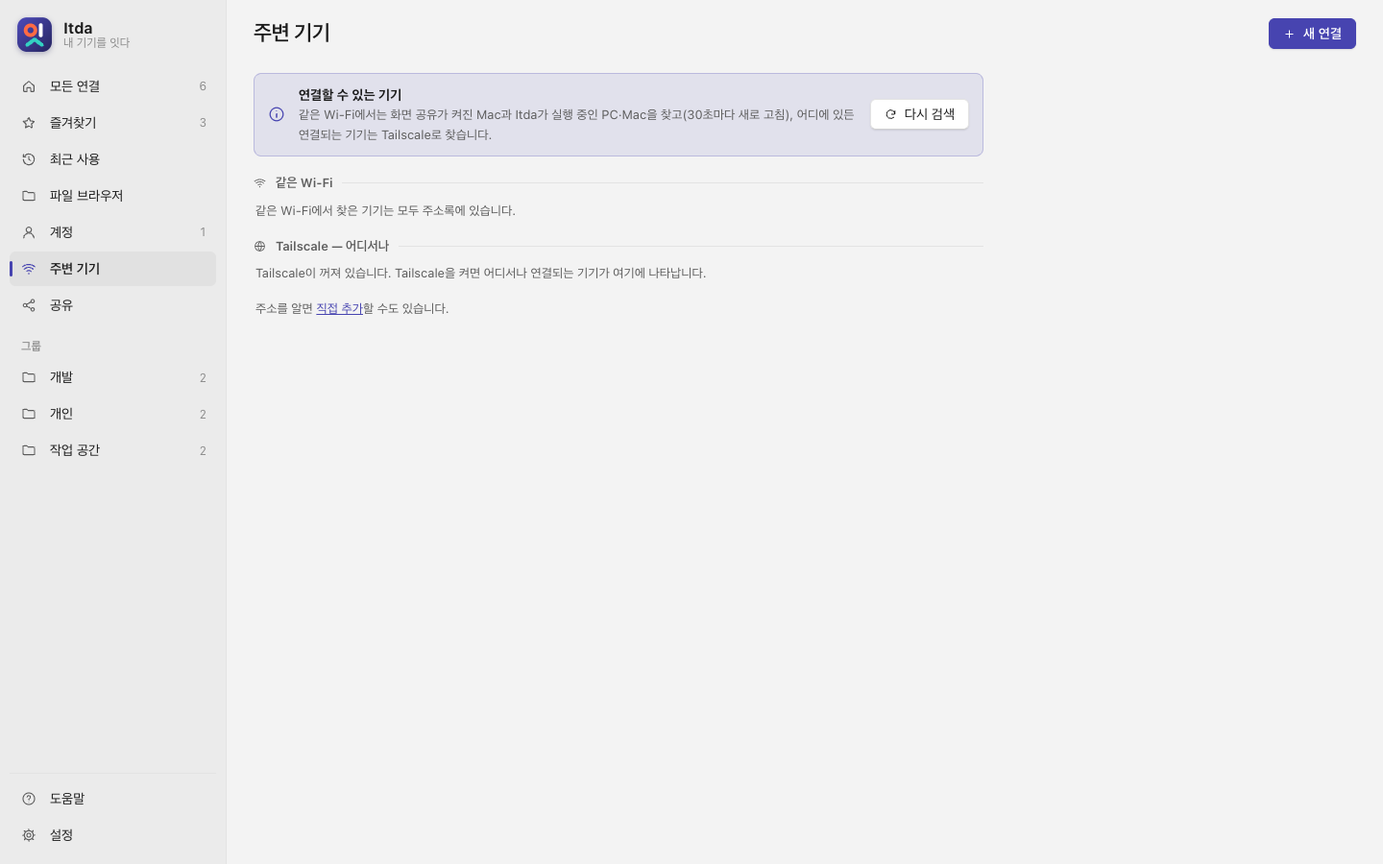
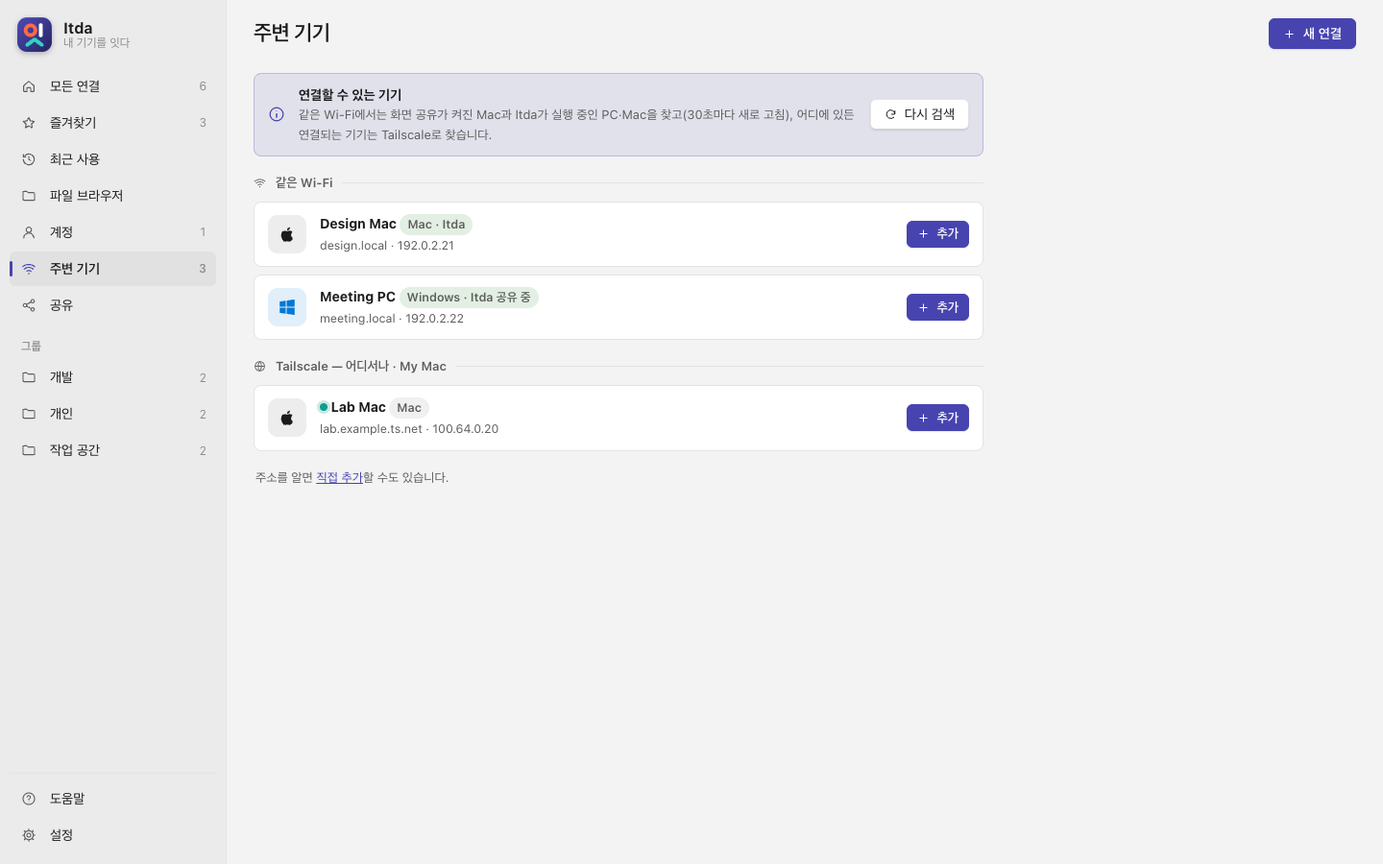
docs(site): enlarge product stories and rebuild device presentation

diff --git a/docs/index.html b/docs/index.html
@@ -15,13 +15,13 @@
 <meta property="og:title" content="Itda — 내 기기를 잇다" data-ko-content="Itda — 내 기기를 잇다" data-en-content="Itda — Connect your devices">
 <meta property="og:description" content="Windows·Mac 화면 공유와 SSH/SFTP 파일 브라우저. 휴대폰 웹 뷰어, 탭과 미리보기, 다중 모니터를 지원하는 무료 오픈 소스 앱 Itda." data-ko-content="Windows·Mac 화면 공유와 SSH/SFTP 파일 브라우저. 휴대폰 웹 뷰어, 탭과 미리보기, 다중 모니터를 지원하는 무료 오픈 소스 앱 Itda." data-en-content="Itda connects screens and files on Windows and Mac, with an SSH/SFTP file browser, mobile web viewer, tabs, previews and multiple monitors. Free and open source.">
 <meta property="og:url" content="https://jiun.dev/itda/">
-<meta property="og:image" content="https://jiun.dev/itda/img/og.png?v=2">
+<meta property="og:image" content="https://jiun.dev/itda/img/og.png?v=3">
 <meta property="og:image:width" content="1200">
 <meta property="og:image:height" content="630">
 <meta name="twitter:card" content="summary_large_image">
 <meta name="twitter:title" content="Itda — 내 기기를 잇다" data-ko-content="Itda — 내 기기를 잇다" data-en-content="Itda — Connect your devices">
 <meta name="twitter:description" content="Windows·Mac 화면 공유와 SSH/SFTP 파일 브라우저. 휴대폰 웹 뷰어, 탭과 미리보기, 다중 모니터를 지원하는 무료 오픈 소스 앱 Itda." data-ko-content="Windows·Mac 화면 공유와 SSH/SFTP 파일 브라우저. 휴대폰 웹 뷰어, 탭과 미리보기, 다중 모니터를 지원하는 무료 오픈 소스 앱 Itda." data-en-content="Itda connects screens and files on Windows and Mac, with an SSH/SFTP file browser, mobile web viewer, tabs, previews and multiple monitors. Free and open source.">
-<meta name="twitter:image" content="https://jiun.dev/itda/img/og.png?v=2">
+<meta name="twitter:image" content="https://jiun.dev/itda/img/og.png?v=3">
 <link rel="preconnect" href="https://cdn.jsdelivr.net" crossorigin>
 <link rel="stylesheet" href="https://cdn.jsdelivr.net/gh/orioncactus/pretendard@v1.3.9/dist/web/variable/pretendardvariable-dynamic-subset.min.css">
 <link rel="stylesheet" href="style.css">
@@ -100,13 +100,13 @@
       <figure class="stage reveal">
         <div class="device-scene">
           <div class="device-laptop">
-            <div class="laptop-display"><span class="laptop-camera" aria-hidden="true"></span><div class="device-screen"><picture>
-              <source srcset="img/home-light.png" media="(prefers-color-scheme: light)">
-              <img src="img/home-dark.png" width="1440" height="900" fetchpriority="high" alt="예시 기기를 표시한 현재 Itda 앱" data-ko-alt="예시 기기를 표시한 현재 Itda 앱" data-en-alt="The current Itda app showing example devices">
-            </picture></div></div>
+            <div class="laptop-display"><span class="laptop-camera" aria-hidden="true"></span><div class="device-screen"><div class="laptop-menu" aria-hidden="true"><span><b>Itda</b>　<span lang="ko">파일　편집　보기</span><span lang="en">File　Edit　View</span></span><span>9:41</span></div><a href="img/home-dark.png" data-preview data-full-light="img/home-light.png" data-full-dark="img/home-dark.png"><picture>
+              <source srcset="img/home-light.png" media="(prefers-color-scheme: light)" width="1440" height="900">
+              <img src="img/home-dark.png" fetchpriority="high" alt="예시 기기를 표시한 현재 Itda 앱" data-ko-alt="예시 기기를 표시한 현재 Itda 앱" data-en-alt="The current Itda app showing example devices" width="1440" height="900">
+            </picture></a></div></div>
             <div class="laptop-base" aria-hidden="true"></div>
           </div>
-          <div class="device-phone"><div class="phone-screen"><div class="mobile-status" aria-hidden="true"><span>9:41</span><span class="camera-island"></span><span class="status-icons">▮▮▮ <i></i></span></div><img src="img/phone-list.png" width="780" height="1560" alt="예시 기기가 보이는 휴대폰 웹 뷰어" data-ko-alt="예시 기기가 보이는 휴대폰 웹 뷰어" data-en-alt="The actual phone web viewer with example devices"></div></div>
+          <div class="device-phone"><div class="phone-screen"><div class="mobile-status" aria-hidden="true"><span>9:41</span><span class="camera-island"></span><span class="status-icons"><svg viewBox="0 0 28 12"><path d="M1 10V8h2v2zm4 0V6h2v4zm4 0V4h2v6zm4 0V2h2v8z"/><rect x="19" y="3" width="7" height="6" rx="1" fill="none" stroke="currentColor"/><path d="M20 4h5v4h-5zM27 5h1v2h-1z"/></svg></span></div><div class="browser-chrome" aria-hidden="true"><span>‹</span><span class="browser-address">192.0.2.10:8780</span><span>↻</span></div><a class="phone-preview" href="img/phone-list.png" data-preview><img src="img/phone-list.png" alt="예시 기기가 보이는 휴대폰 웹 뷰어" data-ko-alt="예시 기기가 보이는 휴대폰 웹 뷰어" data-en-alt="The actual phone web viewer with example devices" width="780" height="1440"></a><div class="home-indicator" aria-hidden="true"></div></div></div>
         </div>
         <figcaption><span lang="ko">Windows·macOS 앱과 휴대폰 웹 뷰어 · 실제 UI, 예시 데이터</span><span lang="en">Windows and macOS apps, plus the phone web viewer · actual UI with example data</span></figcaption>
       </figure>
@@ -183,7 +183,7 @@
   <!-- showcase -->
   <section class="section alt">
     <div class="wrap">
-      <div class="show reveal">
+      <div class="show show-wide reveal">
         <div class="show-copy">
           <span class="kicker"><span lang="ko">주소록</span><span lang="en">Address book</span></span>
           <h2><span lang="ko">연결은 카드 한 번 클릭</span><span lang="en">One click to connect</span></h2>
@@ -194,10 +194,17 @@
             <li><svg><use href="#i-check"/></svg><span lang="ko"><b>한글 입력과 클립보드</b> — 한/영 전환, 양방향 클립보드, ⌘ ↔ Ctrl</span><span lang="en"><b>Korean IME &amp; clipboard</b> — Hangul toggle, two-way clipboard, ⌘ ↔ Ctrl</span></li>
           </ul>
         </div>
-        <div class="shot-wrap"><div class="shot"><img src="img/nearby.png" width="1440" height="900" loading="lazy" alt="주변 기기: 같은 Wi-Fi와 Tailscale에서 찾은 Mac과 PC" data-ko-alt="주변 기기: 같은 Wi-Fi와 Tailscale에서 찾은 Mac과 PC" data-en-alt="Nearby devices found on Wi-Fi and Tailscale"></div></div>
+        <figure class="product-visual">
+          <a class="shot zoomable" href="img/home-focus-dark.png" data-preview data-full-light="img/home-focus-light.png" data-full-dark="img/home-focus-dark.png"><picture><source srcset="img/home-mobile-light.png" media="(max-width: 600px) and (prefers-color-scheme: light)" width="345" height="327"><source srcset="img/home-mobile-dark.png" media="(max-width: 600px)" width="345" height="327"><source srcset="img/home-medium-light.png" media="(max-width: 900px) and (prefers-color-scheme: light)" width="710" height="327"><source srcset="img/home-medium-dark.png" media="(max-width: 900px)" width="710" height="327"><source srcset="img/home-focus-light.png" media="(prefers-color-scheme: light)" width="1075" height="327"><img src="img/home-focus-dark.png" loading="lazy" alt="저장한 기기 카드와 온라인 상태를 크게 표시한 주소록" data-ko-alt="저장한 기기 카드와 온라인 상태를 크게 표시한 주소록" data-en-alt="Address book with saved device cards and online status" data-ui-font="17" width="1075" height="327"></picture><span class="zoom-hint"><span lang="ko">크게 보기 ↗</span><span lang="en">Enlarge ↗</span></span></a>
+          <figcaption><span lang="ko">저장한 기기를 클릭하면 바로 연결됩니다. 카드 영역 확대 · 실제 UI, 예시 기기</span><span lang="en">Click a saved device to connect. Card detail · actual UI, example devices</span></figcaption>
+        </figure>
+        <div class="discovery-detail">
+          <div><span class="detail-number">+</span><h3><span lang="ko">처음 연결할 기기는<br>주변에서 찾고 추가</span><span lang="en">Find a nearby device.<br>Add it to your cards.</span></h3><p><span lang="ko">같은 Wi-Fi와 Tailscale에서 발견한 기기를 주소록에 추가하세요.</span><span lang="en">Add devices discovered on your Wi-Fi or Tailscale to the address book.</span></p></div>
+          <figure><a class="shot zoomable" href="img/nearby-focus.png" data-preview data-full="img/nearby-focus.png"><picture><source srcset="img/nearby-mobile.png" media="(max-width: 600px)" width="400" height="714"><img src="img/nearby-focus.png" loading="lazy" alt="Design Mac, Meeting PC, Lab Mac과 추가 버튼이 표시된 주변 기기" data-ko-alt="Design Mac, Meeting PC, Lab Mac과 추가 버튼이 표시된 주변 기기" data-en-alt="Nearby Design Mac, Meeting PC and Lab Mac with Add buttons" data-ui-font="15" width="735" height="536"></picture><span class="zoom-hint"><span lang="ko">크게 보기 ↗</span><span lang="en">Enlarge ↗</span></span></a><figcaption><span lang="ko">주변 기기 화면의 핵심 영역 확대 · 예시 데이터</span><span lang="en">Detail of Nearby · example data</span></figcaption></figure>
+        </div>
       </div>
 
-      <div class="show flip reveal" id="files">
+      <div class="show show-wide reveal" id="files">
         <div class="show-copy">
           <span class="kicker"><span lang="ko">파일 브라우저</span><span lang="en">File browser</span></span>
           <h2><span lang="ko">화면을 열지 않고<br>파일에 바로 접근</span><span lang="en">Open the files.<br>Keep your screen.</span></h2>
@@ -208,7 +215,7 @@
           </ul>
           <a class="text-link" href="start.html#files"><span lang="ko">파일 연결 방법 보기 →</span><span lang="en">Set up file access →</span></a>
         </div>
-        <figure class="shot-wrap"><div class="shot"><picture><source srcset="img/files-light.png" media="(prefers-color-scheme: light)"><img src="img/files-dark.png" width="1440" height="900" loading="lazy" alt="예시 폴더와 파일을 표시한 실제 Mac 파일 브라우저" data-ko-alt="예시 폴더와 파일을 표시한 실제 Mac 파일 브라우저" data-en-alt="The actual Mac file browser with example folders and files"></picture></div><figcaption><span lang="ko">현재 Mac UI · 예시 데이터</span><span lang="en">Current Mac UI · example data</span></figcaption></figure>
+        <figure class="product-visual"><a class="shot zoomable" href="img/files-focus-dark.png" data-preview data-full-light="img/files-focus-light.png" data-full-dark="img/files-focus-dark.png"><picture><source srcset="img/files-mobile-light.png" media="(max-width: 600px) and (prefers-color-scheme: light)" width="400" height="450"><source srcset="img/files-mobile-dark.png" media="(max-width: 600px)" width="400" height="450"><source srcset="img/files-medium-light.png" media="(max-width: 900px) and (prefers-color-scheme: light)" width="850" height="580"><source srcset="img/files-medium-dark.png" media="(max-width: 900px)" width="850" height="580"><source srcset="img/files-focus-light.png" media="(prefers-color-scheme: light)" width="1100" height="580"><img src="img/files-focus-dark.png" loading="lazy" alt="파일 이름과 도구 막대가 잘 보이도록 확대한 Mac 파일 브라우저" data-ko-alt="파일 이름과 도구 막대가 잘 보이도록 확대한 Mac 파일 브라우저" data-en-alt="Mac file browser enlarged to show file names and toolbar" data-ui-font="15" width="1100" height="580"></picture><span class="zoom-hint"><span lang="ko">크게 보기 ↗</span><span lang="en">Enlarge ↗</span></span></a><figcaption><span lang="ko">실제 Mac 파일 창 · 작은 화면에서는 파일 영역 확대 · 예시 데이터</span><span lang="en">Actual Mac file window · file detail on smaller screens · example data</span></figcaption></figure>
       </div>
 
       <div class="show flip reveal">
@@ -222,13 +229,10 @@
             <li><svg><use href="#i-check"/></svg><span lang="ko"><b>앱처럼 설치</b> — 홈 화면·Dock에 추가하면 전체 화면으로</span><span lang="en"><b>Installs like an app</b> — add to Home Screen or the Dock</span></li>
           </ul>
         </div>
-        <figure class="browser-devices">
-          <div class="device-tablet"><span class="tablet-camera" aria-hidden="true"></span><div class="device-screen"><img src="img/tablet-view.png" width="2048" height="1536" loading="lazy" alt="태블릿 크기로 렌더링한 실제 Itda 웹 뷰어" data-ko-alt="태블릿 크기로 렌더링한 실제 Itda 웹 뷰어" data-en-alt="The actual Itda web viewer at tablet size"></div></div>
-          <figcaption><span lang="ko">기기 목록과 계정 관리를 터치 화면에서도.</span><span lang="en">Your devices and accounts, sized for touch.</span></figcaption>
-        </figure>
+        <figure class="browser-devices phone-feature"><div class="device-phone"><div class="phone-screen"><div class="mobile-status" aria-hidden="true"><span>9:41</span><span class="camera-island"></span><span class="status-icons"><svg viewBox="0 0 28 12"><path d="M1 10V8h2v2zm4 0V6h2v4zm4 0V4h2v6zm4 0V2h2v8z"/><rect x="19" y="3" width="7" height="6" rx="1" fill="none" stroke="currentColor"/><path d="M20 4h5v4h-5zM27 5h1v2h-1z"/></svg></span></div><div class="browser-chrome" aria-hidden="true"><span>‹</span><span class="browser-address">192.0.2.10:8780</span><span>↻</span></div><a class="phone-preview" href="img/phone-list.png" data-preview><img src="img/phone-list.png" alt="예시 기기가 보이는 휴대폰 웹 뷰어" data-ko-alt="예시 기기가 보이는 휴대폰 웹 뷰어" data-en-alt="The actual phone web viewer with example devices" width="780" height="1440"></a><div class="home-indicator" aria-hidden="true"></div></div></div><figcaption><span lang="ko">휴대폰 브라우저에서 연 실제 기기 목록 · 예시 데이터</span><span lang="en">The actual device list in a phone browser · example data</span></figcaption></figure>
       </div>
 
-      <div class="show reveal">
+      <div class="show show-wide reveal">
         <div class="show-copy">
           <span class="kicker"><span lang="ko">공유</span><span lang="en">Sharing</span></span>
           <h2><span lang="ko">QR 하나로 시작</span><span lang="en">Start with one QR code</span></h2>
@@ -238,7 +242,7 @@
             <li><svg><use href="#i-check"/></svg><span lang="ko"><b>보는 사람 표시</b>와 <b>모두 끊기</b>, 알림 영역 알림</span><span lang="en"><b>See who's watching</b>, <b>kick everyone</b>, tray notifications</span></li>
           </ul>
         </div>
-        <div class="shot-wrap"><div class="shot"><img src="img/share.png" width="1440" height="900" loading="lazy" alt="공유 페이지: QR 코드, 주소, 접속 PIN" data-ko-alt="공유 페이지: QR 코드, 주소, 접속 PIN" data-en-alt="Share page with QR code, addresses and PIN"></div></div>
+        <figure class="product-visual qr-visual"><div class="capture-heading"><span><b>1</b><span lang="ko">웹 뷰어 켜기</span><span lang="en">Enable web viewer</span></span><span><b>2</b><span lang="ko">QR 스캔</span><span lang="en">Scan QR</span></span><span><b>3</b><span lang="ko">PIN 입력</span><span lang="en">Enter PIN</span></span></div><a class="shot zoomable" href="img/share-focus.png" data-preview data-full="img/share-focus.png"><picture><source srcset="img/share-mobile.png" media="(max-width: 600px)" width="400" height="535"><img src="img/share-focus.png" loading="lazy" alt="QR 코드, 접속 주소와 PIN을 확대한 실제 공유 화면" data-ko-alt="QR 코드, 접속 주소와 PIN을 확대한 실제 공유 화면" data-en-alt="Actual Share page detail with enlarged QR code, address and PIN" data-ui-font="15" width="735" height="253"></picture><span class="zoom-hint"><span lang="ko">크게 보기 ↗</span><span lang="en">Enlarge ↗</span></span></a><figcaption><span lang="ko">공유 화면의 접속 영역 확대 · 예시 QR입니다. 실제 접속에는 자신의 Itda에 표시된 QR과 PIN을 사용하세요.</span><span lang="en">Detail of the Share page · example QR. Connect using the QR and PIN shown in your own Itda.</span></figcaption></figure>
       </div>
     </div>
   </section>

diff --git a/docs/style.css b/docs/style.css
@@ -152,32 +152,47 @@ h1.title {
 .meta span { display: inline-flex; align-items: center; gap: 6px; }
 .meta svg { width: 15px; height: 15px; color: var(--teal); }
 
-/* Product devices: real aspect ratios; screenshots are never stretched or cropped. */
+/* Device hardware surrounds the real app captures. Feature crops are explicitly captioned. */
 .stage { margin:56px auto 0; max-width:1080px; }
 .device-scene { position:relative; padding:0 5% 32px 0; }
 .device-laptop { width:94%; }
-.laptop-display { position:relative; padding:22px 10px 10px; border-radius:19px 19px 8px 8px; background:#18191e; border:1px solid #55565e; box-shadow:0 25px 60px #05051235,inset 0 0 0 1px #ffffff12; }
-.laptop-camera { position:absolute; width:5px; height:5px; border-radius:50%; top:8px; left:calc(50% - 2px); background:#090a10; box-shadow:0 0 0 2px #303139; }
+.laptop-display { position:relative; padding:8px; border-radius:22px 22px 10px 10px; background:#0c0d10; border:2px solid #555861; box-shadow:0 22px 60px #05051235,inset 0 0 0 1px #000; }
+.laptop-camera { position:absolute; width:12%; height:19px; border-radius:0 0 8px 8px; top:8px; left:44%; background:#0b0c0e; z-index:1; }
+.laptop-camera:after { content:""; position:absolute; width:5px; height:5px; border-radius:50%; top:6px; left:calc(50% - 2.5px); background:#1c2635; box-shadow:0 0 0 1px #292b30; }
 .device-screen { overflow:hidden; background:#f6f6f8; }
+.device-screen a,.phone-preview { display:block; cursor:zoom-in; }
 .device-screen img { display:block; width:100%; height:auto; }
-.laptop-display .device-screen { aspect-ratio:16/10; border-radius:5px; }
-.laptop-base { position:relative; width:108%; height:17px; margin-left:-4%; border-radius:2px 2px 50% 50% / 2px 2px 12px 12px; background:linear-gradient(#c6c7ce,#999ba5 45%,#61636e); box-shadow:0 11px 18px #0002; border-top:1px solid #e5e6ec; }
-.laptop-base:before { content:""; display:block; width:15%; height:6px; margin:auto; background:#6c6f7a; border-radius:0 0 8px 8px; box-shadow:inset 0 1px 2px #31333a88; }
-.device-phone { width:210px; padding:7px; border-radius:34px; background:#24252b; border:1px solid #6e707c; box-shadow:0 22px 45px #03031040,inset 0 0 0 2px #0c0d10; }
-.device-scene > .device-phone { position:absolute; right:0; bottom:8px; width:21%; }
-.phone-screen { overflow:hidden; border-radius:27px; background:#f4f4f6; }
-.phone-screen img { width:100%; height:auto; aspect-ratio:1/2; }
-.mobile-status { position:relative; height:27px; display:flex; align-items:center; justify-content:space-between; padding:0 12px; color:#17181e; font:600 9px/1 var(--font); }
-.camera-island { position:absolute; left:50%; top:5px; transform:translateX(-50%); width:28%; height:16px; background:#111216; border-radius:12px; }
-.status-icons { display:flex; align-items:center; gap:4px; font-size:7px; }
-.status-icons i { display:block; width:13px; height:7px; border:1px solid #666; border-radius:2px; background:linear-gradient(90deg,#25262c 78%,transparent 78%); }
+.laptop-display .device-screen { border-radius:14px 14px 4px 4px; }
+.laptop-menu { display:flex; align-items:center; justify-content:space-between; height:24px; padding:0 14px; background:#303035; color:#eeeef1; font:10px/1 var(--font); }
+@media(prefers-color-scheme:light) { .laptop-menu { background:#dddde3; color:#24252c; } }
+.laptop-base { position:relative; width:107%; height:12px; margin-left:-3.5%; border-radius:2px 2px 7px 7px; background:linear-gradient(#858890 0%,#4d5058 35%,#31343c 80%,#21242b 100%); box-shadow:0 10px 18px #0002; border-top:1px solid #b1b3b8; }
+.laptop-base:before { content:""; display:block; width:14%; height:4px; margin:auto; background:#272930; border-radius:0 0 5px 5px; }
+.device-phone { position:relative; width:390px; max-width:100%; padding:7px; border-radius:49px; background:#141517; border:2px solid #878b94; box-shadow:0 24px 60px #03031030,inset 0 0 0 2px #33363a; }
+.device-phone:before,.device-phone:after { content:""; position:absolute; width:3px; background:#63676e; border-radius:2px; }
+.device-phone:before { height:15%; left:-4px; top:18%; background:linear-gradient(#63676e 42%,transparent 42%,transparent 56%,#63676e 56%); }
+.device-phone:after { height:9%; right:-4px; top:26%; }
+.device-scene > .device-phone { position:absolute; right:0; bottom:8px; width:25%; }
+.phone-screen { overflow:hidden; border-radius:40px; background:#f4f4f6; }
+.phone-screen img { display:block; width:100%; height:auto; aspect-ratio:13/24; }
+.mobile-status { position:relative; height:43px; display:flex; align-items:center; justify-content:space-between; padding:0 26px; color:#17181e; font:600 12px/1 var(--font); }
+.camera-island { position:absolute; left:50%; top:9px; transform:translateX(-50%); width:27%; height:25px; background:#101114; border-radius:16px; }
+.status-icons { width:32px; color:#17181e; }
+.status-icons svg { display:block; width:100%; height:auto; fill:currentColor; }
+.browser-chrome { display:flex; align-items:center; gap:12px; height:47px; padding:3px 16px 8px; color:#43434b; background:#f4f4f6; font-size:20px; }
+.browser-address { flex:1; border-radius:10px; background:#e5e5eb; color:#3b3c43; font-size:12px; text-align:center; line-height:32px; }
+.home-indicator { height:24px; position:relative; background:#f4f4f6; }
+.home-indicator:after { content:""; position:absolute; bottom:7px; left:34%; width:32%; height:4px; background:#131417; border-radius:3px; }
+.device-scene .mobile-status { height:30px; padding:0 17px; font-size:8px; }
+.device-scene .camera-island { top:6px; height:18px; }
+.device-scene .status-icons { width:24px; }
+.device-scene .browser-chrome { height:33px; font-size:15px; gap:8px; padding:0 10px 5px; }
+.device-scene .browser-address { font-size:8px; line-height:23px; border-radius:7px; }
+.device-scene .home-indicator { height:17px; }
+.device-scene .home-indicator:after { bottom:5px; height:3px; }
 figure { margin:0; min-width:0; }
 figcaption { color:var(--text-3); font-size:12px; line-height:1.6; margin-top:18px; text-align:center; }
 .browser-devices { padding:10px 0; }
-.device-tablet { position:relative; padding:11px 18px; border-radius:23px; border:1px solid #656773; background:#24252b; box-shadow:var(--shadow),inset 0 0 0 2px #111216; }
-.device-tablet .device-screen { aspect-ratio:4/3; border-radius:10px; }
-.tablet-camera { position:absolute; width:4px; height:4px; border-radius:50%; background:#101115; left:6px; top:calc(50% - 2px); box-shadow:0 0 0 1px #4c4e59; }
-.phone-row > .device-phone { width:210px; margin:auto; }
+.phone-row > .device-phone { width:320px; margin:auto; }
 
 /* works-with strip */
 .strip { padding: 22px 0 8px; }
@@ -233,12 +248,57 @@ h3 { font-size: 19px; letter-spacing: -.015em; margin: 0 0 6px; }
 .shot {
   position: relative; border-radius: 14px; overflow: hidden; border: 1px solid var(--line-2); box-shadow: var(--shadow); background: #1c1b1f;
 }
-.shot-wrap { position: relative; }
-.shot-wrap::before {
-  content: ""; position: absolute; inset: 8% -6% -8% 8%; z-index: -1; border-radius: 40px; filter: blur(40px);
-  background: linear-gradient(135deg, var(--glow-1), var(--glow-2));
-}
 
+
+/* Readable product stories: full-width app windows and focused details. */
+.show.show-wide { grid-template-columns:minmax(0,1fr); gap:32px; }
+.show-wide .show-copy { max-width:850px; }
+.show-wide .show-copy ul { grid-template-columns:repeat(2,minmax(0,1fr)); }
+.show-wide .show-copy ul li:last-child:nth-child(odd) { grid-column:1/-1; }
+.product-visual { width:100%; }
+.product-visual .shot { width:100%; }
+.shot { display:block; color:inherit; text-decoration:none; }
+.shot img { display:block; width:100%; height:auto; }
+.zoomable { cursor:zoom-in; isolation:isolate; }
+.zoom-hint { position:absolute; right:14px; bottom:12px; padding:6px 12px; border-radius:9px; background:#191925e8; color:white; font-size:12px; box-shadow:0 2px 9px #0003; }
+.zoomable:focus-visible { outline:3px solid var(--accent); outline-offset:5px; }
+.discovery-detail { display:grid; grid-template-columns:300px minmax(0,1fr); gap:40px; align-items:center; margin-top:16px; padding-top:30px; border-top:1px solid var(--line-2); }
+.discovery-detail h3 { font-size:26px; line-height:1.35; margin:14px 0; }
+.discovery-detail p { color:var(--text-2); }
+.detail-number { display:grid; place-items:center; width:36px; height:36px; border:1px solid var(--line-2); border-radius:12px; color:var(--teal); font-size:24px; }
+.phone-feature { display:grid; justify-items:center; padding:24px 20px; border-radius:32px; background:radial-gradient(ellipse at center,var(--glow-1),transparent 70%); }
+.phone-feature .device-phone { width:390px; }
+.capture-heading { display:flex; gap:24px; align-items:center; margin:0 0 20px; flex-wrap:wrap; }
+.capture-heading > span { display:flex; align-items:center; gap:10px; font-size:16px; font-weight:600; }
+.capture-heading b { display:grid; place-items:center; width:30px; height:30px; border-radius:50%; color:var(--accent-ink); background:var(--accent); font-size:14px; }
+.qr-visual { max-width:1000px; }
+.image-dialog { width:calc(100vw - 40px); max-width:1600px; max-height:calc(100dvh - 40px); border:1px solid var(--line-2); border-radius:18px; padding:0; color:var(--text); background:var(--surface); box-shadow:var(--shadow); }
+.image-dialog::backdrop { background:#070710d9; backdrop-filter:blur(8px); }
+.image-dialog header { display:flex; align-items:center; gap:12px; padding:14px 18px; border-bottom:1px solid var(--line); }
+.image-dialog header p { flex:1; margin:0; font-size:14px; }
+.image-dialog button { border:1px solid var(--line-2); background:var(--surface-2); color:var(--text); border-radius:8px; padding:7px 12px; cursor:pointer; font:inherit; font-size:13px; }
+.image-scroll { overflow:auto; max-height:calc(100dvh - 135px); padding:16px; }
+.image-scroll img { display:block; max-width:100%; max-height:calc(100dvh - 175px); width:auto; height:auto; margin:auto; }
+.image-dialog.actual .image-scroll img { max-width:none; max-height:none; margin:0; }
+body:has(.image-dialog[open]) { overflow:hidden; }
+@media(max-width:900px) {
+ .discovery-detail { grid-template-columns:1fr; gap:20px; }
+ .discovery-detail h3 br { display:none; }
+ .show-wide .show-copy ul { grid-template-columns:1fr; }
+}
+@media(max-width:600px) {
+ .phone-feature { padding:14px 0; }
+ .phone-feature .device-phone { width:340px; border-radius:44px; }
+ .phone-feature .phone-screen { border-radius:35px; }
+ .show.show-wide { gap:24px; }
+ .capture-heading { gap:10px 18px; }
+ .capture-heading > span { font-size:13px; gap:7px; }
+ .capture-heading b { width:24px; height:24px; font-size:12px; }
+ .image-dialog { width:calc(100vw - 16px); max-height:calc(100dvh - 16px); }
+ .image-dialog header { flex-wrap:wrap; }
+ .image-dialog header p { flex-basis:100%; }
+ .image-scroll { padding:8px; }
+}
 
 /* how it works */
 .flow { position: relative; border-radius: 24px; border: 1px solid var(--line); background: var(--surface); padding: 36px 28px; overflow: hidden; }
@@ -377,7 +437,7 @@ code { font: 13.5px var(--mono); padding: 2px 7px; border-radius: 6px; backgroun
   .steps3, .sec-grid, .two { grid-template-columns: 1fr; }
   footer .wrap { grid-template-columns: 1fr 1fr; }
   footer .wrap > div:first-child { grid-column: 1 / -1; }
-  .device-scene > .device-phone { width:24%; border-radius:27px; padding:5px; }
+  .device-scene > .device-phone { width:27%; border-radius:29px; padding:5px; }
   .device-scene .phone-screen { border-radius:21px; }
   .phone-row { grid-template-columns: 1fr; }
 
@@ -397,19 +457,23 @@ code { font: 13.5px var(--mono); padding: 2px 7px; border-radius: 6px; backgroun
   .stage { margin-top:40px; }
   .device-scene { padding:0 0 26px; }
   .device-laptop { width:90%; }
-  .laptop-display { padding:13px 5px 5px; border-radius:10px 10px 4px 4px; }
-  .laptop-camera { width:3px; height:3px; top:5px; }
-  .laptop-base { height:9px; }
+  .laptop-display { padding:3px; border-radius:9px 9px 4px 4px; border-width:1px; }
+  .laptop-menu { height:10px; padding:0 5px; font-size:3.5px; }
+  .laptop-display .device-screen { border-radius:5px 5px 2px 2px; }
+  .laptop-camera { top:3px; height:8px; border-radius:0 0 3px 3px; }
+  .laptop-camera:after { width:2px; height:2px; top:2px; left:calc(50% - 1px); }
+  .laptop-base { height:5px; }
   .laptop-base:before { height:3px; }
   .device-scene > .device-phone { width:25%; padding:3px; border-radius:15px; bottom:0; }
   .device-scene .phone-screen { border-radius:12px; }
   .device-scene .mobile-status { height:13px; padding:0 5px; font-size:4px; }
   .device-scene .camera-island { top:3px; height:7px; }
-  .device-scene .status-icons { font-size:3px; gap:2px; }
+  .device-scene .status-icons { width:10px; }
+  .device-scene .browser-chrome { height:15px; gap:3px; padding:0 4px 3px; font-size:6px; }
+  .device-scene .browser-address { font-size:3px; line-height:10px; border-radius:3px; }
+  .device-scene .home-indicator { height:7px; }
+  .device-scene .home-indicator:after { height:1.5px; bottom:2px; }
   .device-scene .status-icons i { width:6px; height:3px; }
-  .device-tablet { padding:7px 12px; border-radius:16px; }
-  .device-tablet .device-screen { border-radius:7px; }
-  .tablet-camera { left:4px; width:3px; height:3px; }
   .eyebrow { font-size:11px; line-height:1.5; max-width:100%; }
   .eyebrow > span:last-child { min-width:0; }
   .final { padding: 52px 20px; }

diff --git a/docs/start.html b/docs/start.html
@@ -15,9 +15,9 @@
 <meta property="og:title" content="시작하기 — Itda" data-ko-content="시작하기 — Itda" data-en-content="Get started — Itda">
 <meta property="og:description" content="Windows·Mac 화면 공유와 SSH/SFTP 파일 브라우저. 휴대폰 웹 뷰어, 탭과 미리보기, 다중 모니터를 지원하는 무료 오픈 소스 앱 Itda." data-ko-content="Windows·Mac 화면 공유와 SSH/SFTP 파일 브라우저. 휴대폰 웹 뷰어, 탭과 미리보기, 다중 모니터를 지원하는 무료 오픈 소스 앱 Itda." data-en-content="Itda connects screens and files on Windows and Mac, with an SSH/SFTP file browser, mobile web viewer, tabs, previews and multiple monitors. Free and open source.">
 <meta property="og:url" content="https://jiun.dev/itda/start.html">
-<meta property="og:image" content="https://jiun.dev/itda/img/og.png?v=2">
+<meta property="og:image" content="https://jiun.dev/itda/img/og.png?v=3">
 <meta name="twitter:card" content="summary_large_image">
-<meta name="twitter:image" content="https://jiun.dev/itda/img/og.png?v=2">
+<meta name="twitter:image" content="https://jiun.dev/itda/img/og.png?v=3">
 <link rel="preconnect" href="https://cdn.jsdelivr.net" crossorigin>
 <link rel="stylesheet" href="https://cdn.jsdelivr.net/gh/orioncactus/pretendard@v1.3.9/dist/web/variable/pretendardvariable-dynamic-subset.min.css">
 <link rel="stylesheet" href="style.css">
@@ -104,7 +104,7 @@
       <section class="step" id="tour">
         <div class="step-head"><span class="step-num">2</span><h2><span lang="ko">첫 화면 둘러보기</span><span lang="en">A first look</span></h2></div>
         <p><span lang="ko">왼쪽에는 <b>모든 연결 · 즐겨찾기 · 최근 사용 · 파일 브라우저 · 계정 · 주변 기기 · 공유</b>가 있고, 가운데에는 저장한 기기가 카드로 보입니다. 위쪽 검색칸에 주소를 바로 입력해 연결할 수도 있습니다.</span><span lang="en">The sidebar has <b>All · Favourites · Recent · File browser · Accounts · Nearby · Share</b>; your saved devices appear as cards. You can also type an address straight into the search box.</span></p>
-        <div class="shot"><picture><source srcset="img/home-light.png" media="(prefers-color-scheme: light)"><img src="img/home-dark.png" width="1440" height="900" loading="lazy" alt="Itda 홈 화면" data-ko-alt="Itda 홈 화면" data-en-alt="Itda home screen"></picture></div>
+        <a class="shot zoomable" href="img/home-dark.png" data-preview data-full-light="img/home-light.png" data-full-dark="img/home-dark.png"><picture><source srcset="img/home-light.png" media="(prefers-color-scheme: light)" width="1440" height="900"><img src="img/home-dark.png" loading="lazy" alt="Itda 홈 화면" data-ko-alt="Itda 홈 화면" data-en-alt="Itda home screen" width="1440" height="900"></picture><span class="zoom-hint"><span lang="ko">크게 보기 ↗</span><span lang="en">Enlarge ↗</span></span></a>
         <p class="cap"><span lang="ko">초록 점은 지금 연결할 수 있다는 뜻입니다. <kbd>Ctrl</kbd> (Mac은 <kbd>⌘</kbd>)와 <kbd>+</kbd> / <kbd>−</kbd>로 앱 화면 크기를 바꿀 수 있습니다.</span><span lang="en">A green dot means the device is reachable right now. Use <kbd>Ctrl</kbd> (<kbd>⌘</kbd> on Mac) and <kbd>+</kbd> / <kbd>−</kbd> to zoom the app.</span></p>
       </section>
 
@@ -117,7 +117,7 @@
           <li><span lang="ko">화면 공유 옆 ⓘ에서 <b>접근 허용</b>에 내 계정이 있는지 확인합니다.</span><span lang="en">Click ⓘ next to Screen Sharing and check your account is in <b>Allow access for</b>.</span></li>
           <li><span lang="ko">Itda의 <b>주변 기기</b>에서 Mac 옆 <b>추가</b>를 누르고, <b>Mac 계정 이름(짧은 이름)</b>과 로그인 암호를 넣은 뒤 <b>저장 후 연결</b>. Apple ID가 아닙니다.</span><span lang="en">In Itda's <b>Nearby</b>, click <b>Add</b> next to the Mac, enter the <b>Mac account short name</b> and login password, then <b>Save &amp; connect</b>. Not your Apple ID.</span></li>
         </ol>
-        <div class="shot"><img src="img/editor.png" width="1440" height="900" loading="lazy" alt="연결 편집 창: 종류, 주소, 계정, SSH" data-ko-alt="연결 편집 창: 종류, 주소, 계정, SSH" data-en-alt="Connection editor: kind, address, account, SSH"></div>
+        <a class="shot zoomable" href="img/editor.png" data-preview><img src="img/editor.png" loading="lazy" alt="연결 편집 창: 종류, 주소, 계정, SSH" data-ko-alt="연결 편집 창: 종류, 주소, 계정, SSH" data-en-alt="Connection editor: kind, address, account, SSH" width="1440" height="900"><span class="zoom-hint"><span lang="ko">크게 보기 ↗</span><span lang="en">Enlarge ↗</span></span></a>
         <p class="cap"><span lang="ko">계정 이름이 헷갈리면 Mac 터미널에서 <code>whoami</code>. 여러 Mac에 같은 계정을 쓰면 <b>계정</b>을 만들어 고르기만 하세요.</span><span lang="en">Unsure of the short name? Run <code>whoami</code> in Terminal. Same account on several Macs? Create an <b>Account</b> once and pick it.</span></p>
         <div class="callout ok"><svg><use href="#i-check"/></svg><div><span lang="ko"><b>밖에서도 쓸 거라면</b> 같은 공유 화면에서 <b>원격 로그인</b>도 켜고, 연결 편집에서 <b>SSH로 암호화해서 연결</b>을 켜세요.</span><span lang="en"><b>Using it away from home?</b> Also turn on <b>Remote Login</b> on the Mac and switch on <b>Encrypt with SSH</b> in the connection editor.</span></div></div>
       </section>
@@ -154,7 +154,7 @@
           <li><span lang="ko">Itda 메인 화면의 <b>파일 브라우저</b>를 누르면 별도 파일 창이 열립니다. 기기를 고르고 저장 계정이나 파일 연결 계정을 선택하세요. 화면 공유 세션은 필요하지 않습니다.</span><span lang="en">Open <b>File browser</b> in the main window to get a separate file window. Choose a device and its saved or file-connection account. No screen-sharing session is required.</span></li>
           <li><span lang="ko">탭과 경로 표시로 폴더를 탐색하고 복사·이동하세요. 기기 선택은 같은 창에서 이동하며, <kbd>⌘</kbd> / <kbd>Ctrl</kbd> + 클릭 또는 <kbd>⌘N</kbd> / <kbd>Ctrl+N</kbd>은 명시적으로 새 파일 창을 엽니다.</span><span lang="en">Browse using tabs and the path bar, then copy or move files. Device selections stay in the same window; <kbd>⌘</kbd> / <kbd>Ctrl</kbd>-click or <kbd>⌘N</kbd> / <kbd>Ctrl+N</kbd> explicitly opens another file window.</span></li>
         </ol>
-        <div class="shot"><picture><source srcset="img/files-light.png" media="(prefers-color-scheme: light)"><img src="img/files-dark.png" width="1440" height="900" loading="lazy" alt="예시 파일이 표시된 Mac 파일 브라우저" data-ko-alt="예시 파일이 표시된 Mac 파일 브라우저" data-en-alt="Mac file browser with example files"></picture></div>
+        <a class="shot zoomable" href="img/files-dark.png" data-preview data-full-light="img/files-light.png" data-full-dark="img/files-dark.png"><picture><source srcset="img/files-light.png" media="(prefers-color-scheme: light)" width="1440" height="900"><img src="img/files-dark.png" loading="lazy" alt="예시 파일이 표시된 Mac 파일 브라우저" data-ko-alt="예시 파일이 표시된 Mac 파일 브라우저" data-en-alt="Mac file browser with example files" width="1440" height="900"></picture><span class="zoom-hint"><span lang="ko">크게 보기 ↗</span><span lang="en">Enlarge ↗</span></span></a>
         <p class="cap"><span lang="ko">Mac의 아이콘·목록·열·갤러리 보기와 미리보기를 지원합니다. SMB 공유 폴더를 Finder·탐색기로 여는 동작은 상대 기기의 파일 공유 설정을 사용합니다.</span><span lang="en">Mac supports icon, list, column and gallery views with previews. Opening SMB shares in Finder or Explorer uses the remote device’s file-sharing settings.</span></p>
       </section>
 
@@ -174,7 +174,7 @@
           <li><span lang="ko">휴대폰 카메라로 QR을 찍거나 Mac 브라우저에 주소를 입력하고 PIN을 넣습니다.</span><span lang="en">Scan the QR with your phone's camera (or type the address on a Mac) and enter the PIN.</span></li>
           <li><span lang="ko">기기를 눌러 엽니다. 기기 추가·편집·계정 관리도 여기서 됩니다.</span><span lang="en">Tap a device to open it. You can add and edit devices and accounts here too.</span></li>
         </ol>
-        <div class="shot"><img src="img/share.png" width="1440" height="900" loading="lazy" alt="공유 페이지의 QR 코드와 PIN" data-ko-alt="공유 페이지의 QR 코드와 PIN" data-en-alt="QR code and PIN on the Share page"></div>
+        <a class="shot zoomable" href="img/share.png" data-preview><img src="img/share.png" loading="lazy" alt="공유 페이지의 QR 코드와 PIN" data-ko-alt="공유 페이지의 QR 코드와 PIN" data-en-alt="QR code and PIN on the Share page" width="1440" height="900"><span class="zoom-hint"><span lang="ko">크게 보기 ↗</span><span lang="en">Enlarge ↗</span></span></a>
         <p class="cap"><span lang="ko">예시 화면입니다. 실제 접속 주소와 PIN은 자신의 Itda 공유 페이지에서 확인하세요.</span><span lang="en">Example screen. Use the address and PIN shown in your own Itda Share page.</span></p>
         <div class="phone-row" style="margin-top:24px">
           <div>
@@ -187,7 +187,7 @@
             <p class="cap"><span lang="ko">Chrome·Edge·Android의 설치는 https:// 주소에서만 됩니다 — 아래 Tailscale HTTPS 주소를 쓰세요.</span><span lang="en">Chrome, Edge and Android only install from an https:// address — use the Tailscale HTTPS address below.</span></p>
             <div class="callout"><svg><use href="#i-info"/></svg><div><span lang="ko">터치: <b>탭</b> = 클릭, <b>두 손가락 탭</b> = 오른쪽 클릭, <b>두 손가락 끌기</b> = 스크롤. 위쪽 도구 막대에서 키보드(한글 가능), ⌘·Ctrl+Alt+Del 키, 클립보드를 씁니다.</span><span lang="en">Touch: <b>tap</b> = click, <b>two-finger tap</b> = right-click, <b>two-finger drag</b> = scroll. The toolbar has the keyboard, ⌘ / Ctrl+Alt+Del keys and the clipboard.</span></div></div>
           </div>
-          <div class="device-phone"><div class="phone-screen"><div class="mobile-status" aria-hidden="true"><span>9:41</span><span class="camera-island"></span><span class="status-icons">▮▮▮ <i></i></span></div><img src="img/phone-list.png" width="780" height="1560" loading="lazy" alt="예시 기기가 보이는 휴대폰 웹 뷰어" data-ko-alt="예시 기기가 보이는 휴대폰 웹 뷰어" data-en-alt="The actual phone web viewer with example devices"></div></div>
+          <div class="device-phone"><div class="phone-screen"><div class="mobile-status" aria-hidden="true"><span>9:41</span><span class="camera-island"></span><span class="status-icons"><svg viewBox="0 0 28 12"><path d="M1 10V8h2v2zm4 0V6h2v4zm4 0V4h2v6zm4 0V2h2v8z"/><rect x="19" y="3" width="7" height="6" rx="1" fill="none" stroke="currentColor"/><path d="M20 4h5v4h-5zM27 5h1v2h-1z"/></svg></span></div><div class="browser-chrome" aria-hidden="true"><span>‹</span><span class="browser-address">192.0.2.10:8780</span><span>↻</span></div><a class="phone-preview" href="img/phone-list.png" data-preview><img src="img/phone-list.png" loading="lazy" alt="예시 기기가 보이는 휴대폰 웹 뷰어" data-ko-alt="예시 기기가 보이는 휴대폰 웹 뷰어" data-en-alt="The actual phone web viewer with example devices" width="780" height="1440"></a><div class="home-indicator" aria-hidden="true"></div></div></div>
         </div>
       </section>
 
@@ -200,7 +200,7 @@
           <li><span lang="ko">Itda <b>주변 기기</b>의 <b>Tailscale — 어디서나</b>에서 기기를 추가합니다.</span><span lang="en">Add devices from <b>Tailscale — anywhere</b> in Itda's <b>Nearby</b>.</span></li>
           <li><span lang="ko">웹 뷰어의 QR을 <b>Tailscale</b>로 바꾸면 밖에서 쓸 주소가 나옵니다. Tailscale 관리 콘솔 → DNS에서 <b>HTTPS Certificates</b>를 켜면 <b>HTTPS 주소 만들기</b>도 됩니다.</span><span lang="en">Switch the web viewer's QR to <b>Tailscale</b> for the away-from-home address. Turn on <b>HTTPS Certificates</b> under DNS in the Tailscale admin console to get an <b>HTTPS address</b>.</span></li>
         </ol>
-        <div class="shot"><img src="img/nearby.png" width="1440" height="900" loading="lazy" alt="주변 기기의 Tailscale 목록" data-ko-alt="주변 기기의 Tailscale 목록" data-en-alt="Tailscale devices in Nearby"></div>
+        <a class="shot zoomable" href="img/nearby.png" data-preview><img src="img/nearby.png" loading="lazy" alt="주변 기기의 Tailscale 목록" data-ko-alt="주변 기기의 Tailscale 목록" data-en-alt="Tailscale devices in Nearby" width="1440" height="900"><span class="zoom-hint"><span lang="ko">크게 보기 ↗</span><span lang="en">Enlarge ↗</span></span></a>
       </section>
 
       <!-- trouble -->

diff --git a/docs/site.js b/docs/site.js
@@ -29,6 +29,45 @@
     apply(b.dataset.set);
   });
 
+  // Product captures open in a keyboard-accessible viewer; the original link works without JS.
+  var viewer, lastPreview;
+  document.addEventListener('click', function (e) {
+    var link = e.target.closest && e.target.closest('[data-preview]');
+    if (!link || e.button !== 0 || e.metaKey || e.ctrlKey || e.shiftKey || e.altKey) return;
+    if (!window.HTMLDialogElement) return;
+    e.preventDefault();
+    if (!viewer) {
+      viewer = document.createElement('dialog');
+      viewer.className = 'image-dialog';
+      viewer.setAttribute('aria-labelledby', 'preview-caption');
+      viewer.innerHTML = '<header><p id="preview-caption"></p><button type="button" data-image-size></button><button type="button" data-image-close></button></header><div class="image-scroll"><img alt=""></div>';
+      document.body.appendChild(viewer);
+      viewer.querySelector('[data-image-close]').addEventListener('click', function () { viewer.close(); });
+      viewer.querySelector('[data-image-size]').addEventListener('click', function () {
+        viewer.classList.toggle('actual');
+        this.setAttribute('aria-pressed', String(viewer.classList.contains('actual')));
+      });
+      viewer.addEventListener('close', function () { if (lastPreview) lastPreview.focus({preventScroll:true}); });
+      viewer.addEventListener('click', function (event) {
+        var box = viewer.getBoundingClientRect();
+        if (event.target === viewer && (event.clientX < box.left || event.clientX > box.right || event.clientY < box.top || event.clientY > box.bottom)) viewer.close();
+      });
+    }
+    lastPreview = link;
+    var img = link.querySelector('img');
+    var dark = window.matchMedia('(prefers-color-scheme: dark)').matches;
+    viewer.querySelector('img').src = link.dataset[dark ? 'fullDark' : 'fullLight'] || link.dataset.full || link.href;
+    viewer.querySelector('img').alt = img ? img.alt : '';
+    viewer.querySelector('p').textContent = img ? img.alt : (lang === 'ko' ? '화면 크게 보기' : 'Screenshot');
+    viewer.querySelector('[data-image-close]').textContent = lang === 'ko' ? '닫기' : 'Close';
+    var size = viewer.querySelector('[data-image-size]');
+    size.textContent = lang === 'ko' ? '원본 크기' : 'Actual size';
+    size.setAttribute('aria-pressed', 'false');
+    viewer.classList.remove('actual');
+    viewer.showModal();
+    viewer.querySelector('[data-image-close]').focus();
+  });
+
   // ---- nav border once scrolled
   var nav = document.querySelector('.nav');
   function onScroll() { if (nav) nav.classList.toggle('scrolled', window.scrollY > 8); }
